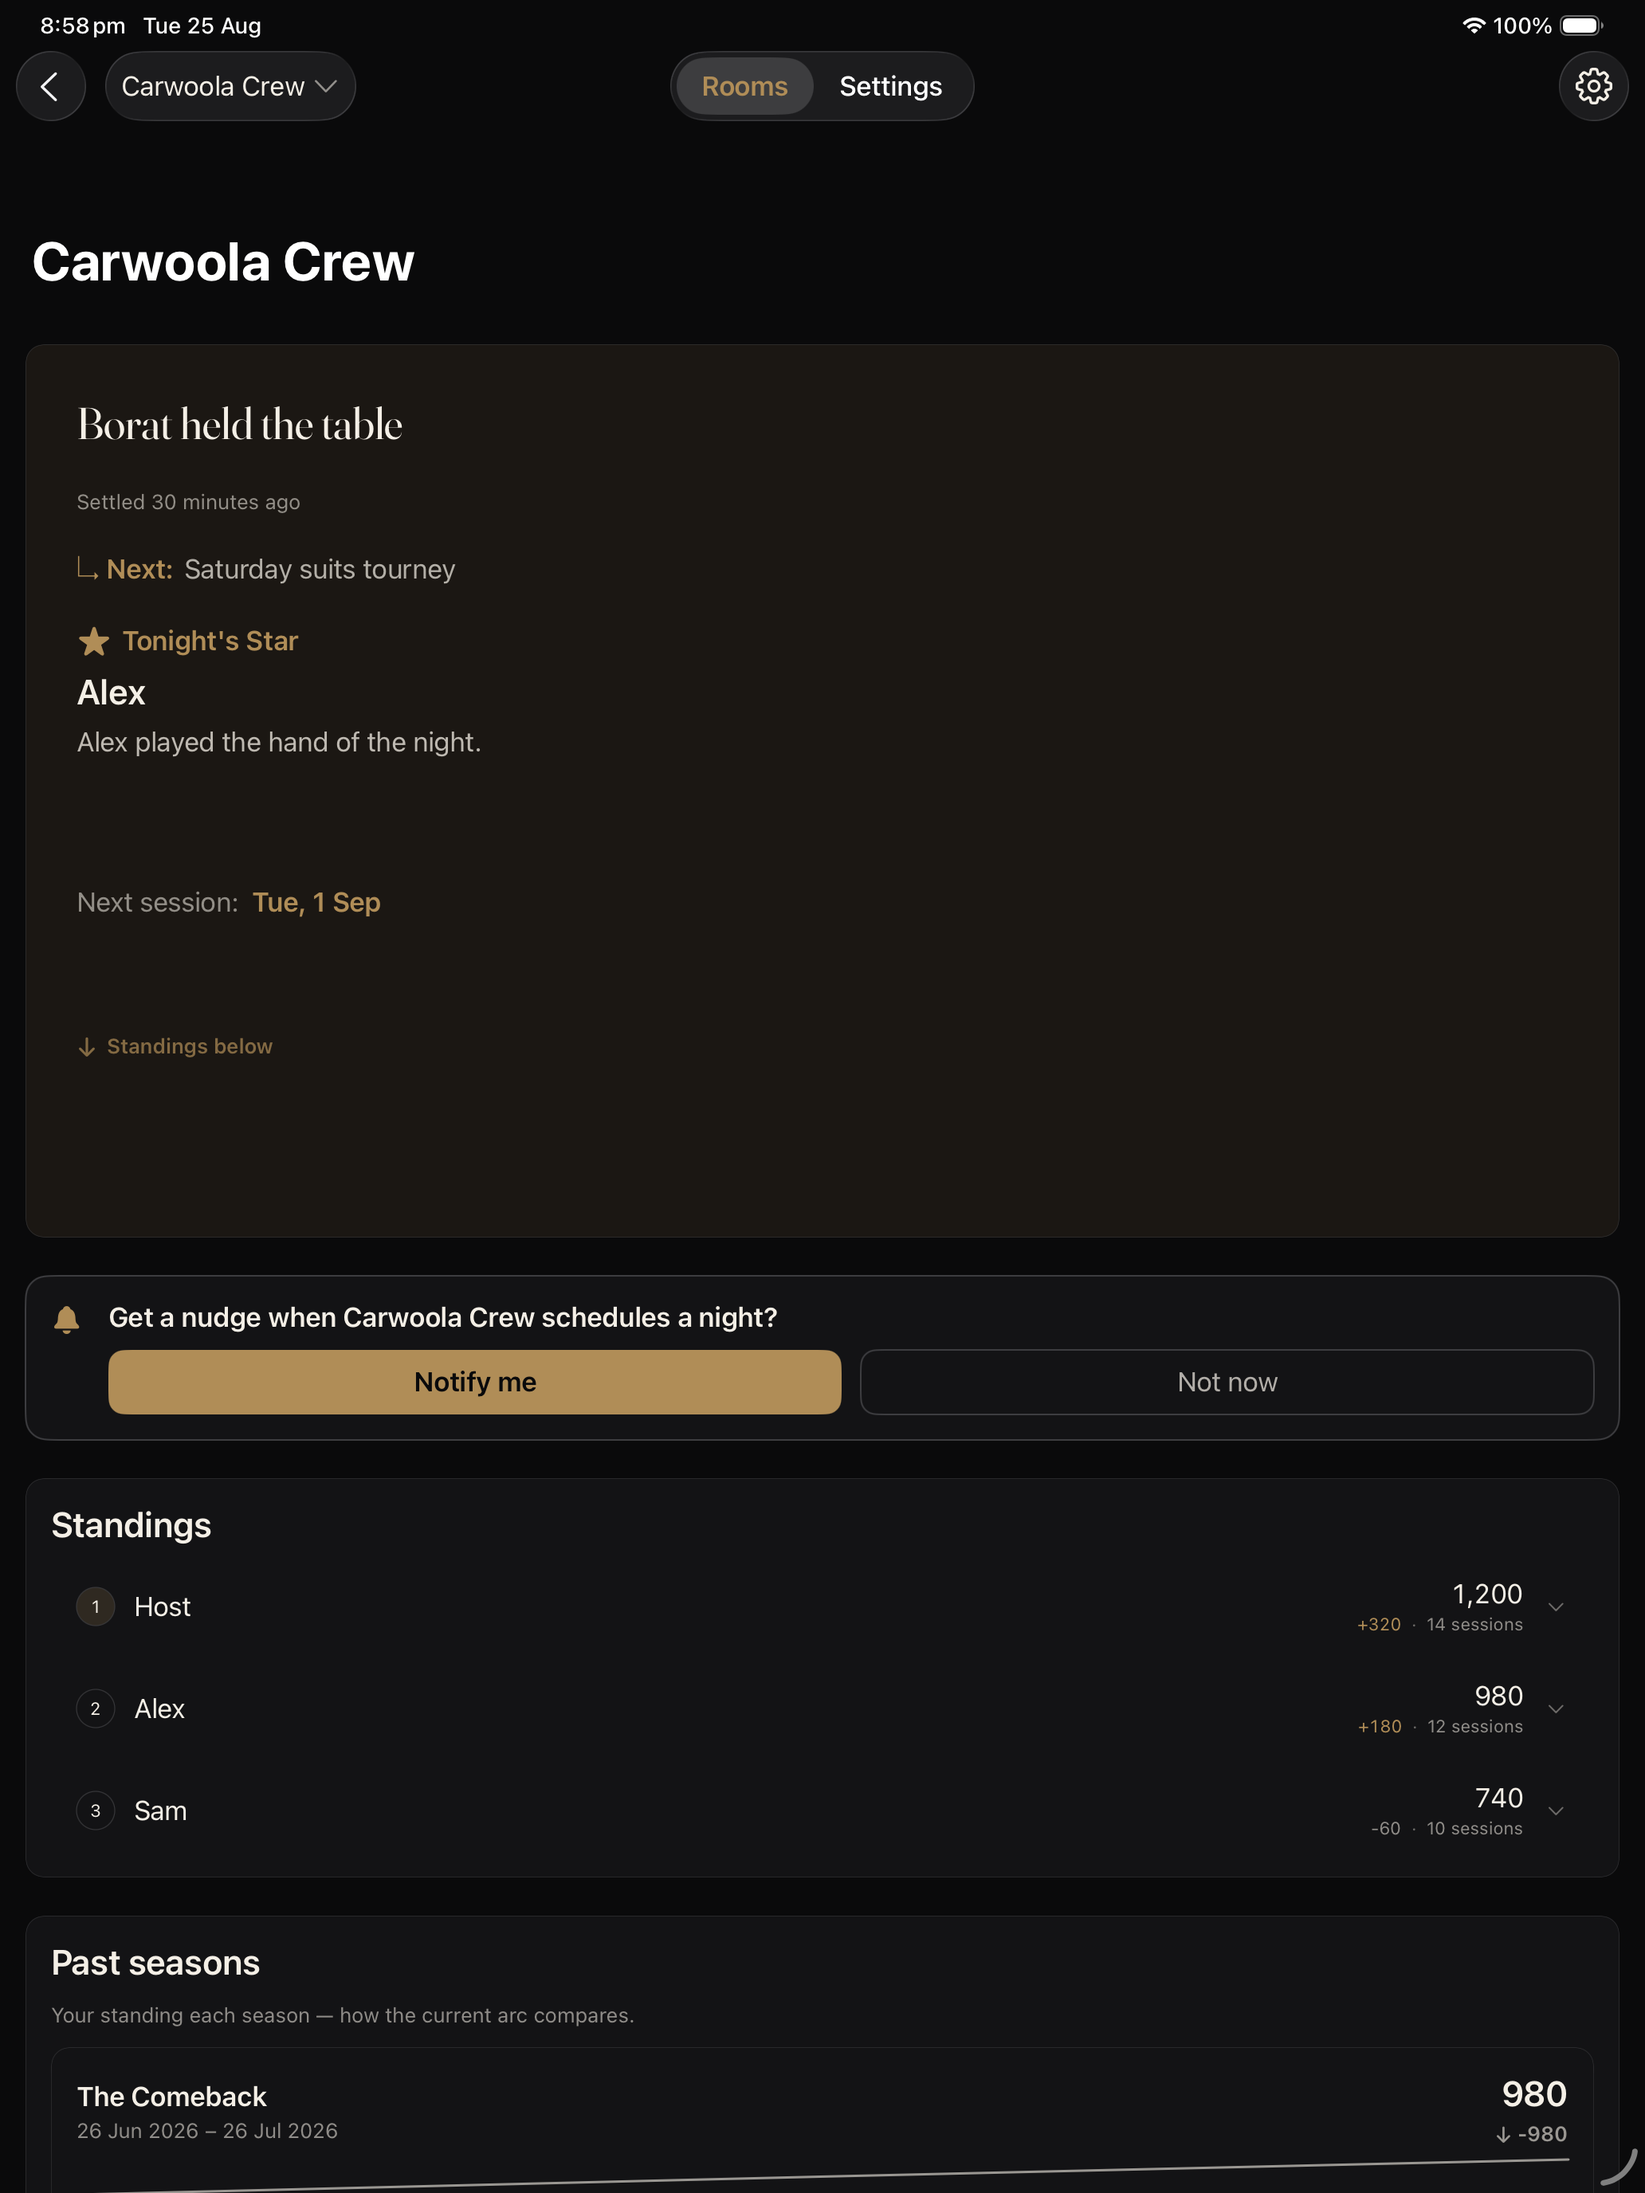
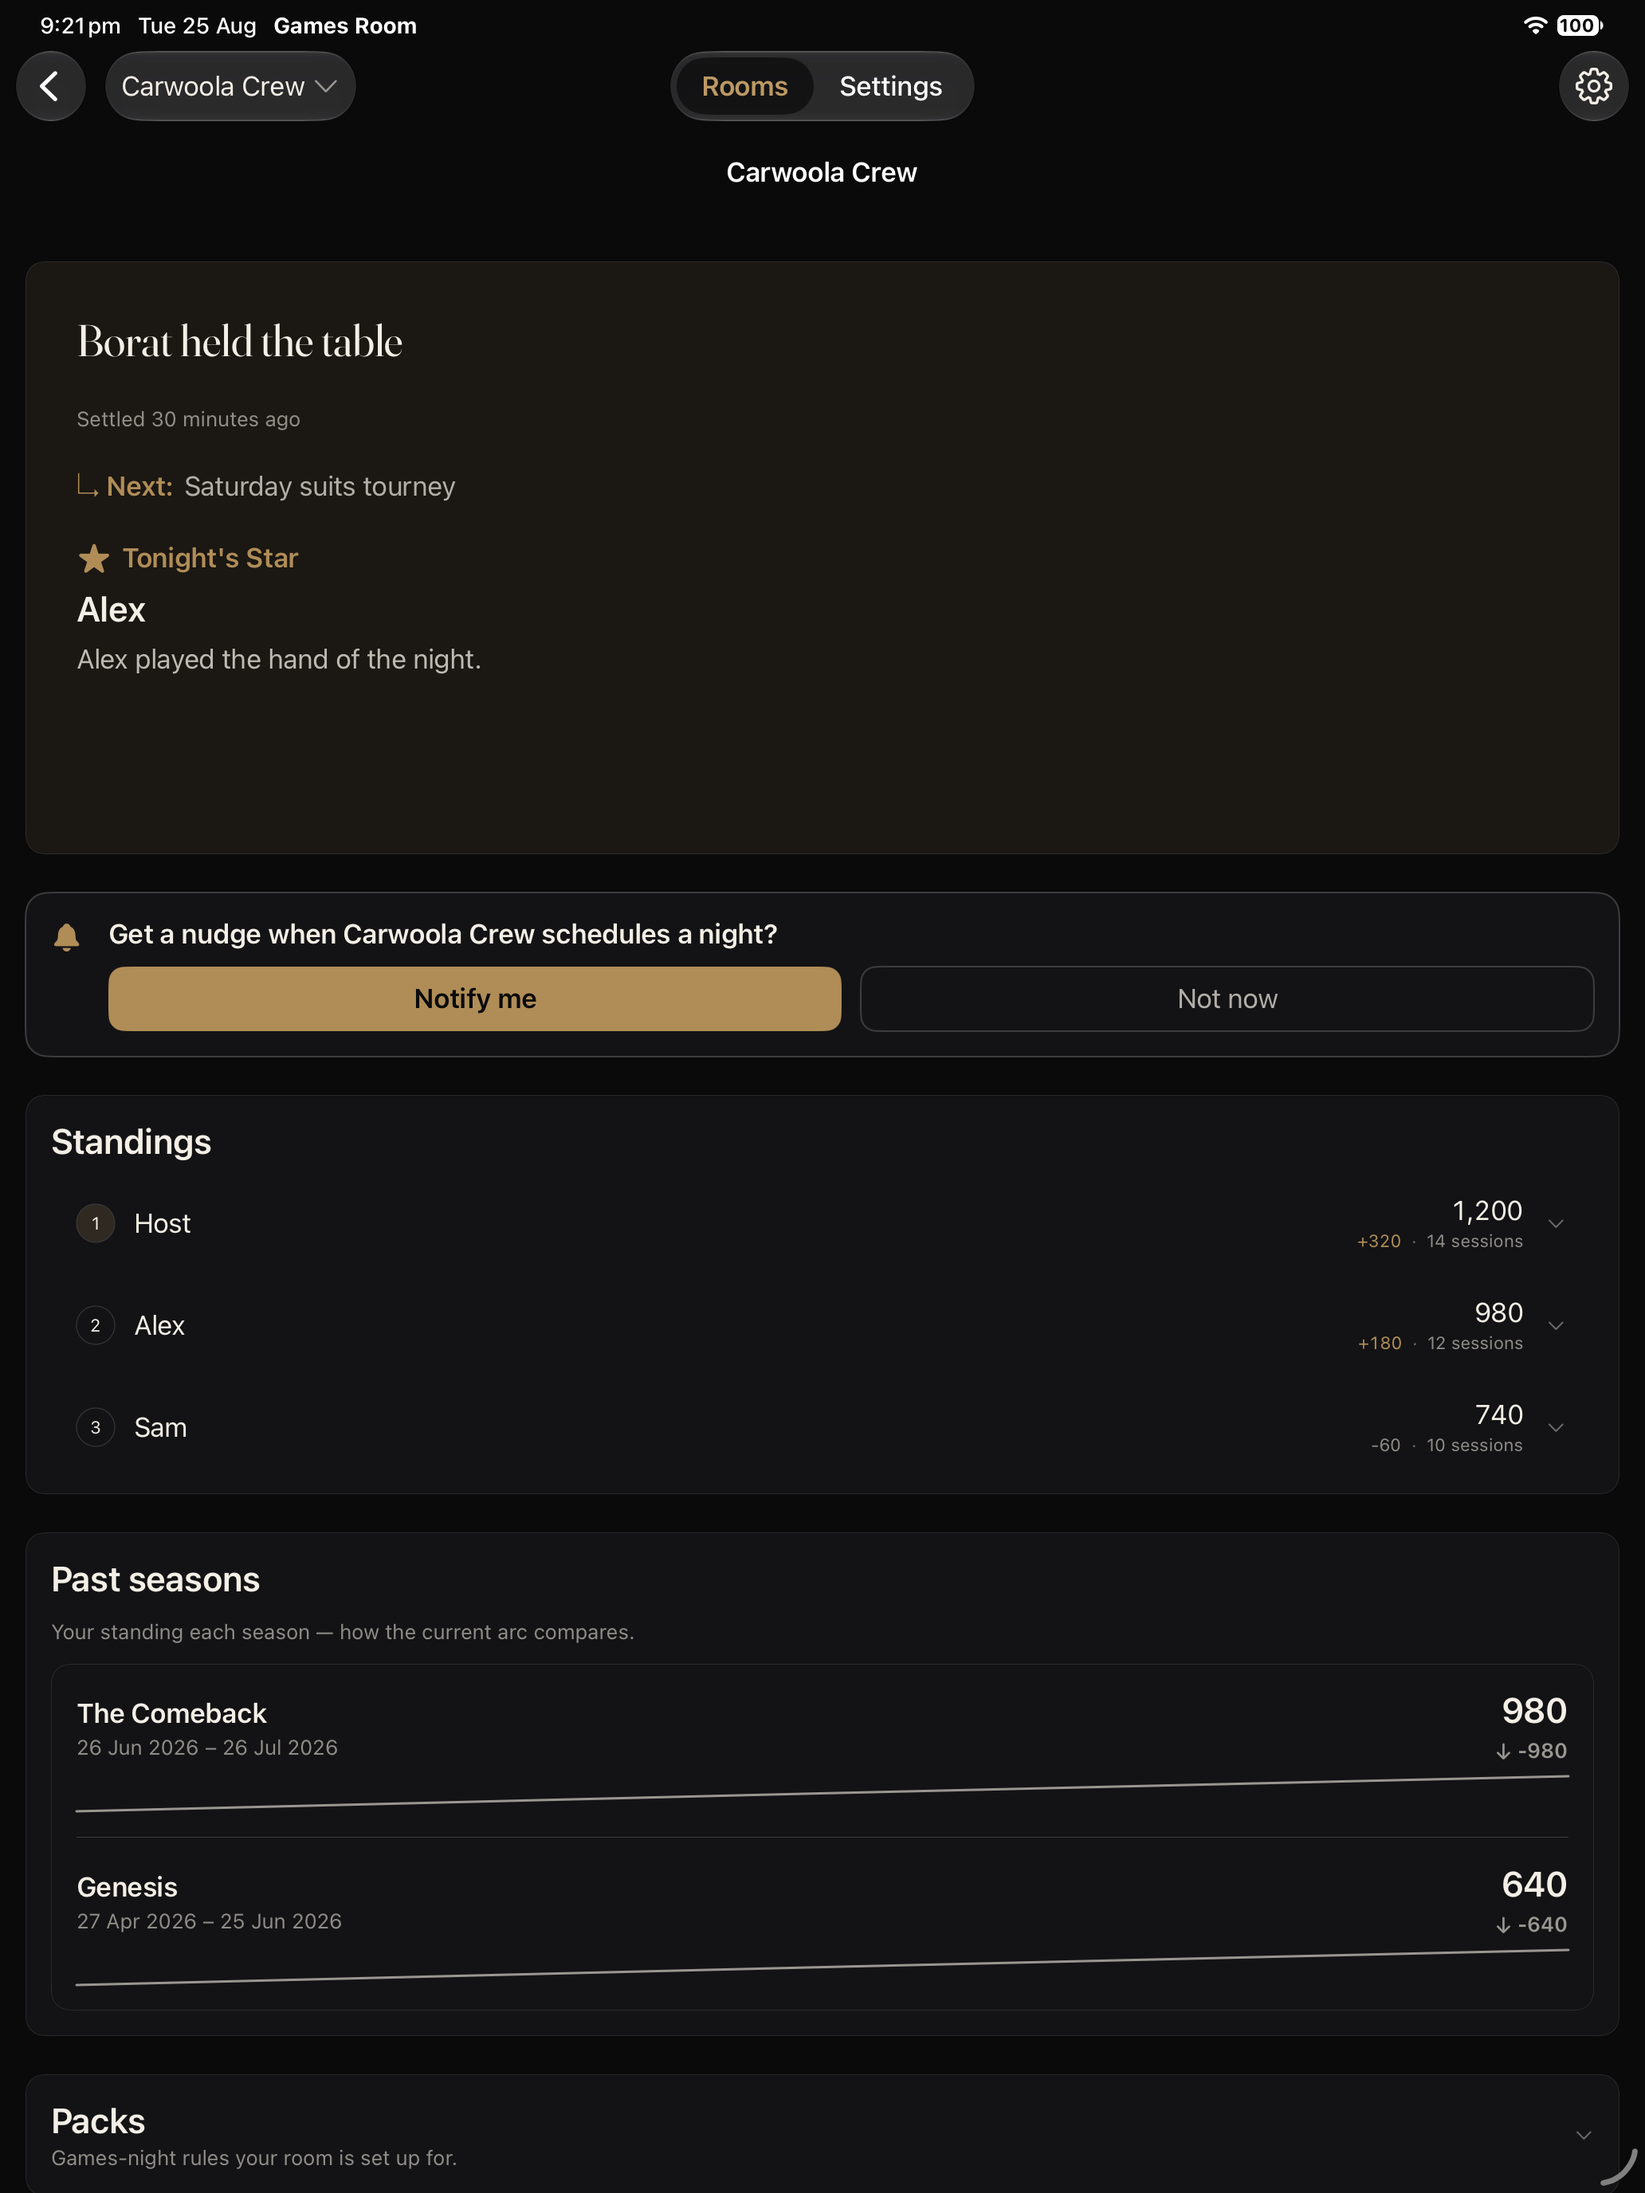
feat(screenshots): v4 ceremonial card — reflect v4 spacing fix

diff --git a/screenshots/manifest.md b/screenshots/manifest.md
@@ -1,9 +1,9 @@
-# App Store screenshots — V0.97+ v3
+# App Store screenshots — V0.97+ v3 + v4 ceremonial card
 
 App Store Connect requires screenshots at every device size the app
 supports. Without them the submission is rejected.
 
-This directory holds the V0.97+ v3 screenshot set, generated by
+This directory holds the V0.97+ screenshot set, generated by
 `scripts/make-screenshots.py` from twelve source captures of the
 main-branch Debug build on the iPhone 17 Pro Max and iPad Pro 13"
 M5 (iOS 27 SDK, Xcode 27). v3 recaptures the v2 set against current
@@ -129,7 +129,7 @@ App Store Connect screenshot scroller respects the file order):
    delta), and the past-seasons preview. Casino + CAH packs at
    the foot of the screen.
 
-4. **04-ceremonial-card.png** — *Ceremonial card*
+4. **04-ceremonial-card.png** — *Ceremonial card* (v4 capture)
    The room-detail surface in `.justSettled` mode, **captured
    as a signed-in member** (`-screenshots-as-member` flips
    `carwoola.userRole` to `.member` for this one capture).
@@ -139,6 +139,12 @@ App Store Connect screenshot scroller respects the file order):
    V0.84 Tonight's Star read-only section (Alex / Best play
    source). **No host controls visible** — no picker pills,
    no member picker, no "Save the call" CTA.
+   **v4 refresh (commit `9339047`)** — dead-space Spacers
+   removed, the hardcoded `Next session: +7d` row deleted
+   (it was fictional), the `Standings below` hint deleted.
+   Tonight's Star block now ends the card; bottom 80pt
+   safe-area padding follows. The other 5 surfaces stay at
+   their v3 captures.
 
 5. **05-awards-card.png** — *Awards card*
    The room-detail surface in `.seasonClose` mode on Felt
@@ -372,3 +378,43 @@ proper fix requires a one-line condition change AND a `.frame
 (maxWidth: .infinity, alignment: .center)` fixup on the
 `contentColumn()` modifier — both out of scope for a screenshot
 recapture per the brief's hard don'ts.
+
+
+## v4 ceremonial card refresh
+
+Ceremonial-card only recapture against commit `9339047` (landed
+on main after the v3 set was generated at commit `4292fdf`).
+Captured iPhone 17 Pro Max + iPad Pro 13" (M5), then ran
+`scripts/make-screenshots.py` to regenerate the captioned
+working artifacts and caption-free upload set for all four
+required sizes (6.9", 6.5", 5.5", iPad 13").
+
+**What changed since v3:**
+- The two dead-space `Spacer()` rows that sat above and below
+  the old "Next session" / "Standings below" hint are gone.
+- The hardcoded `Next session: +7d` row was removed entirely —
+  it was fictional (no such scheduling concept exists in V0.92)
+  and only existed as a placeholder for the v3 capture.
+- The `Standings below` down-arrow hint was removed — the
+  page-anchor scroll affordance no longer matches the
+  ceremonial card's content model.
+
+**What did not change:**
+- `01-create-room`, `02-briefing-slot`, `03-witness-slot`,
+  `05-awards-card`, `06-settings-sheet` — all five surfaces
+  stay at their v3 captures (commit `19bce0d`). The v4 fix
+  touched `RoomDetailView.swift` ceremonial-card body only;
+  no other surface changed.
+- The dual-set pipeline (raw / captioned / upload) — the v4
+  recapture re-ran `scripts/make-screenshots.py` with the
+  v3 raw sources for the other five surfaces and only the
+  fresh ceremonial-card raw in place, so only the four
+  ceremonial-card upload PNGs differ from v3.
+- Brand register, screenshot bypass wiring, launch args —
+  unchanged.
+
+**Diff scope (this commit):** only `screenshots/raw/{iphone,
+ipad}/04-ceremonial.png` plus the four ceremonial-card
+PNGs across `iphone-6.9/`, `iphone-6.5/`, `iphone-5.5/`,
+`ipad-13/`, the four ceremonial-card PNGs in `upload/`, and
+this manifest entry. 10 binary files changed.
